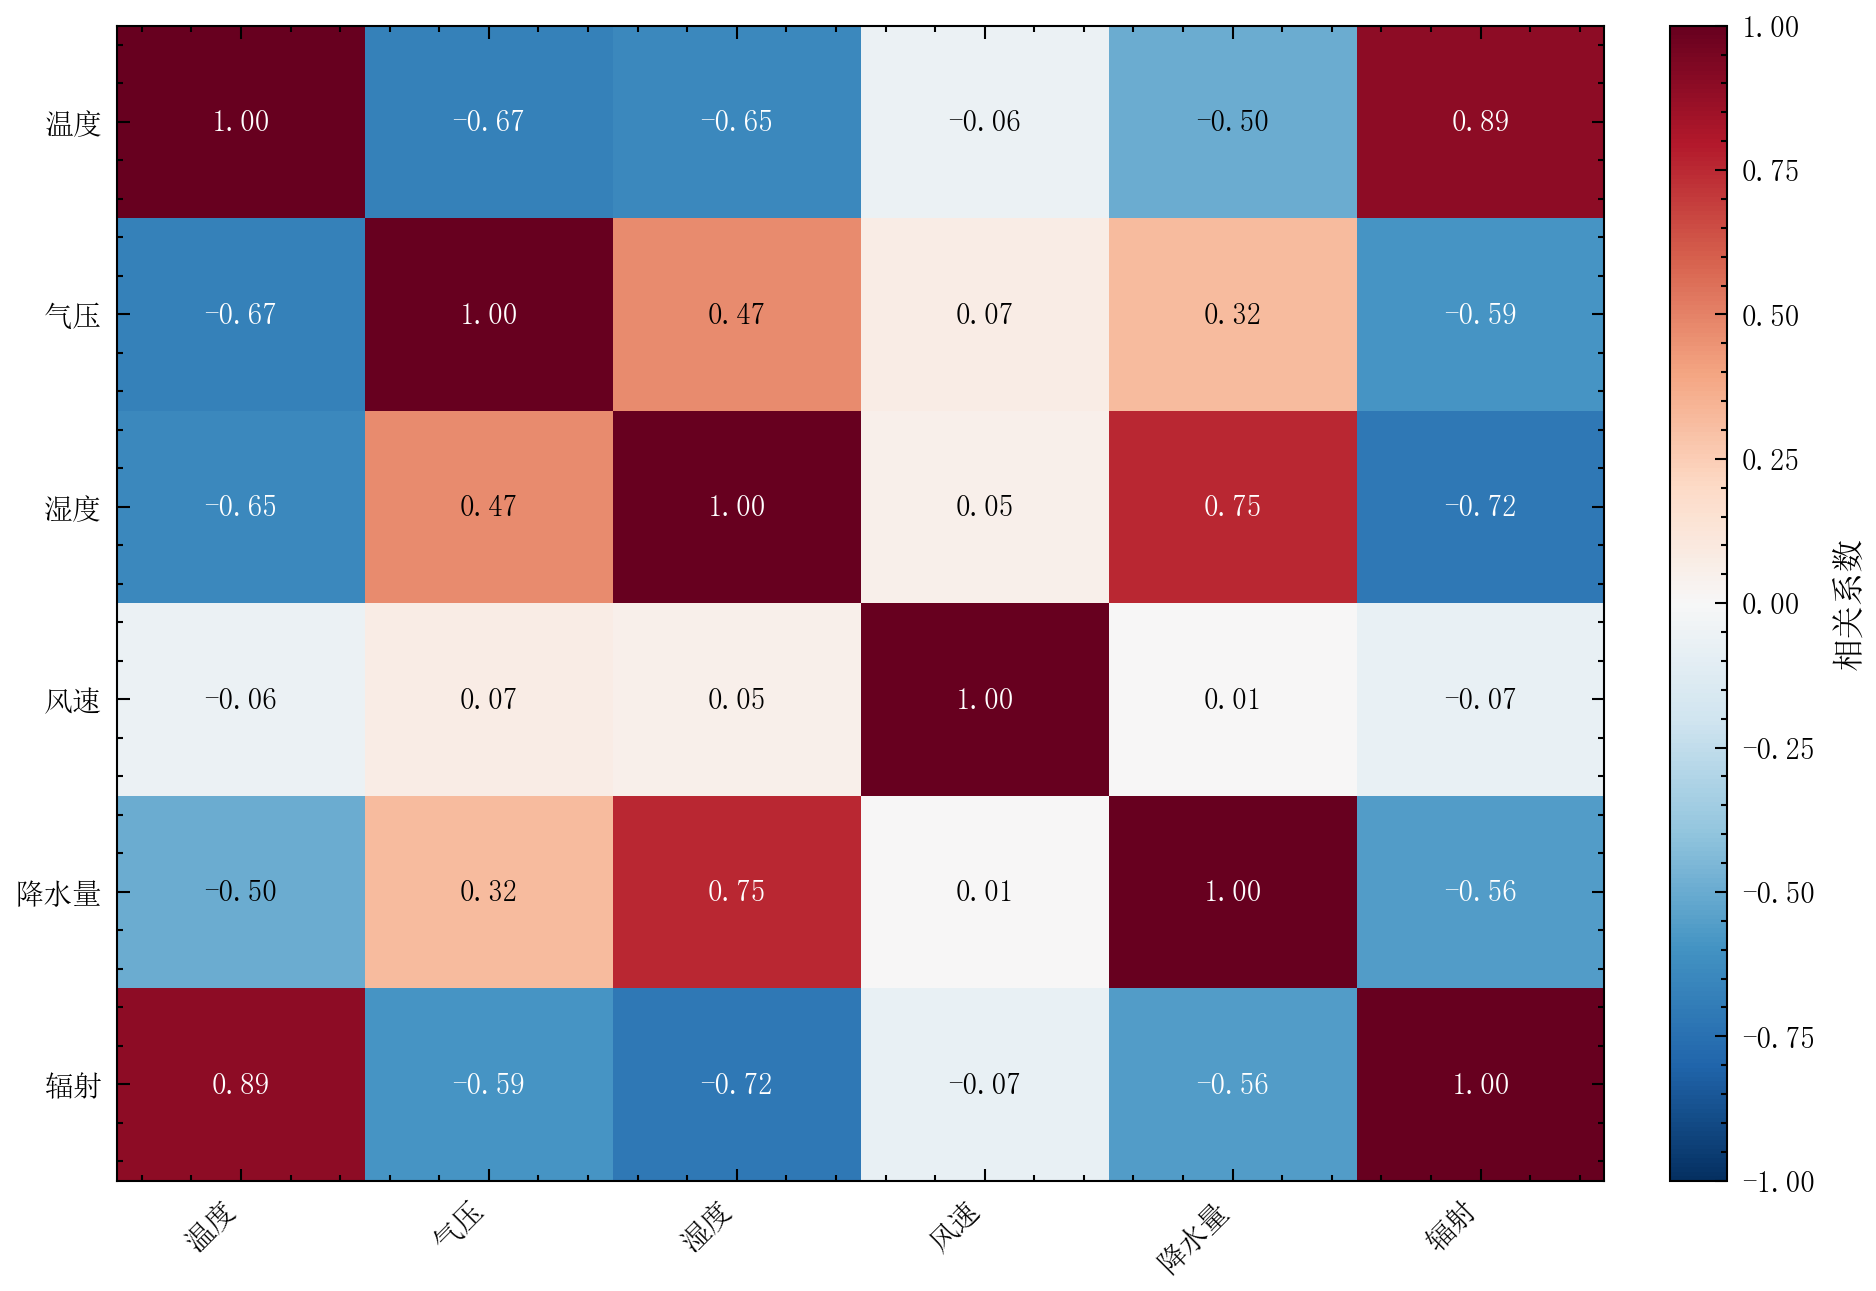
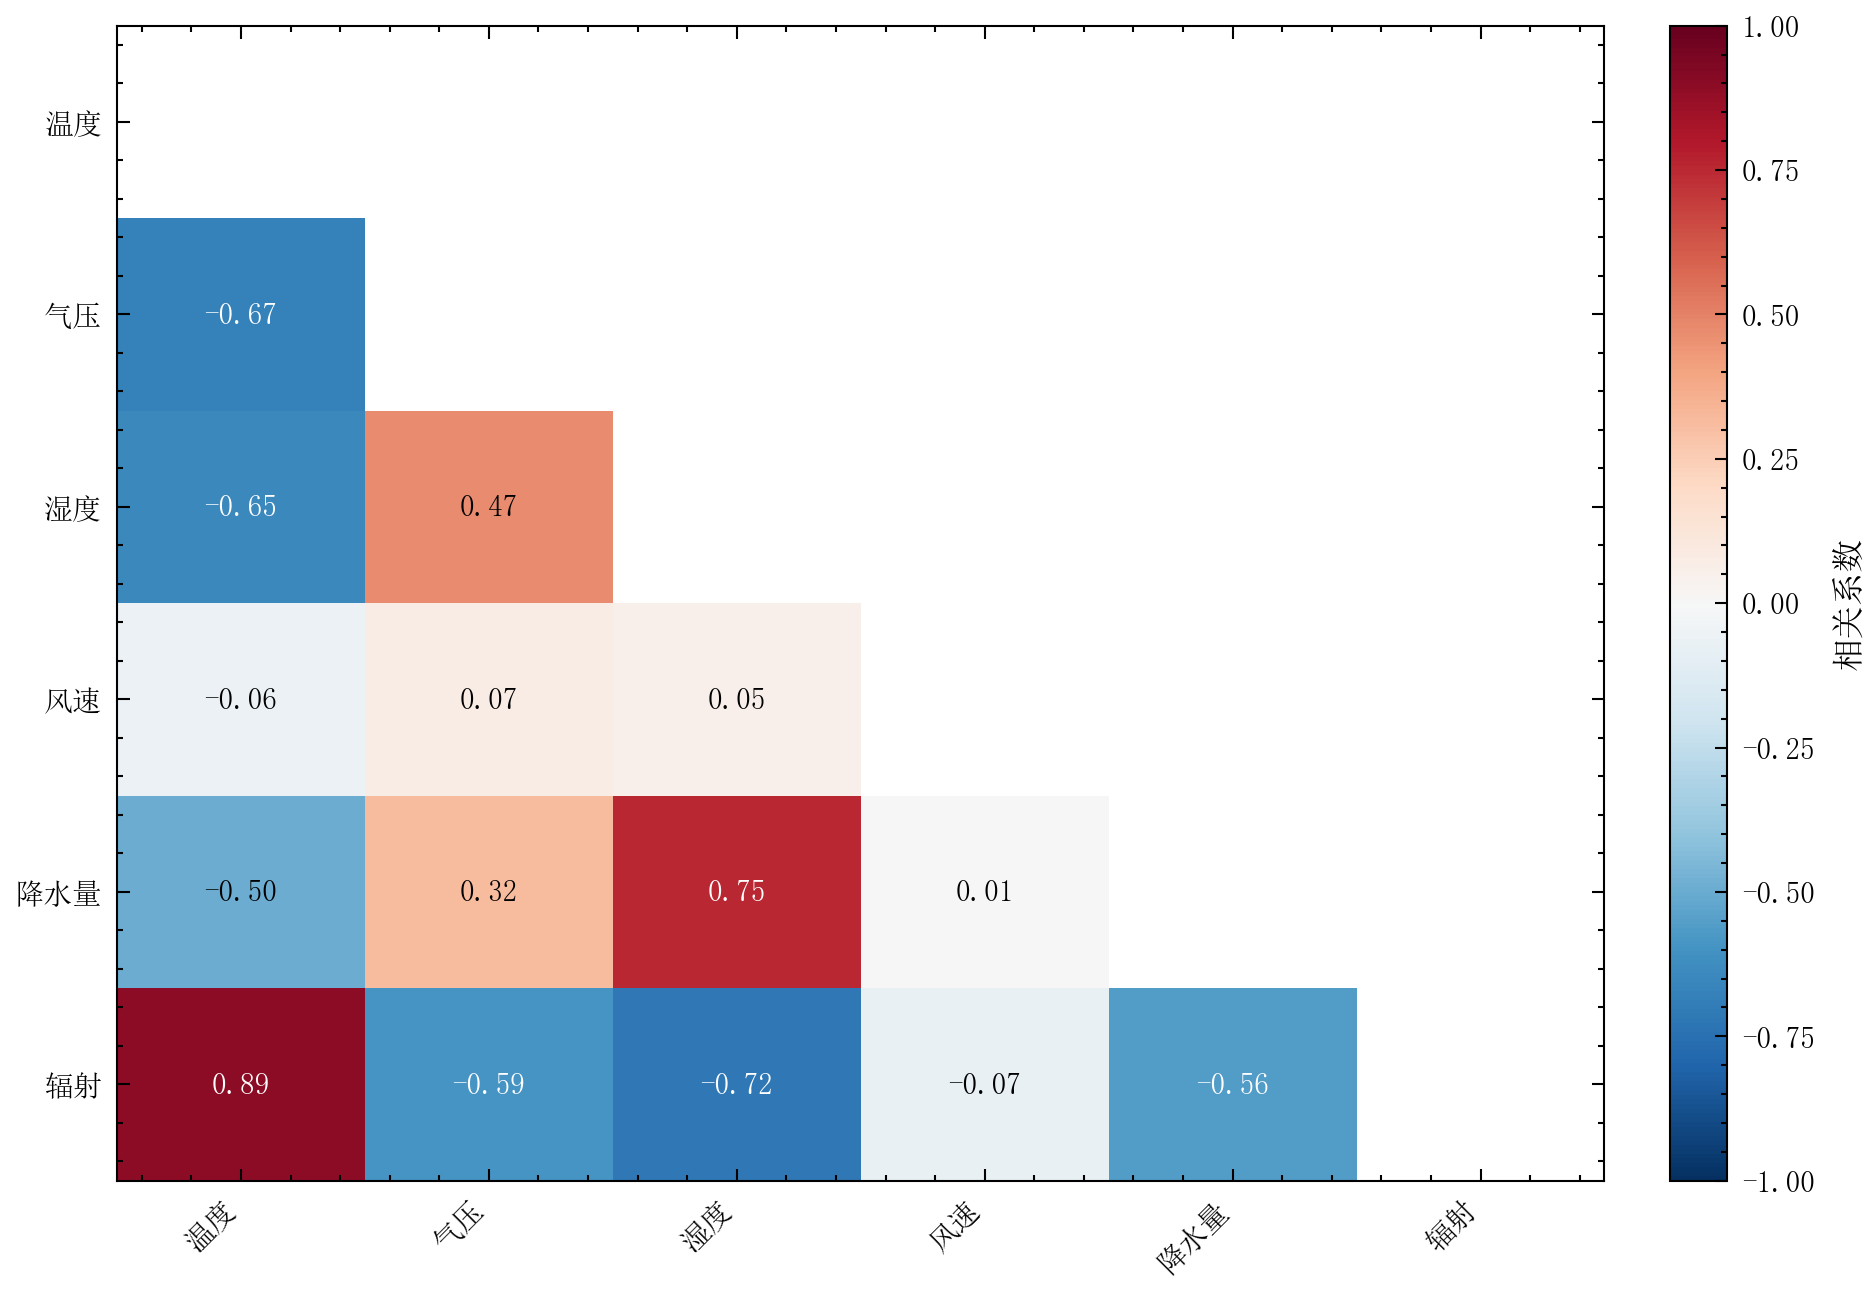
feat: heatmap支持NaN掩膜格 + showcase05下三角惯例 + grouped_bar colors测试4个

diff --git a/tests/unit/test_grouped_bar_colors.py b/tests/unit/test_grouped_bar_colors.py
@@ -1,0 +1,46 @@
+"""
+Round-46 tests: plot_grouped_bar colors 参数 + plot_heatmap NaN 掩膜.
+"""
+
+from __future__ import annotations
+
+import numpy as np
+import pytest
+
+import sciplot as sp
+
+
+def test_grouped_bar_custom_colors(cleanup_figures):
+    data = {"A": [1.0, 2.0], "B": [3.0, 4.0], "C": [5.0, 6.0]}
+    result = sp.plot_grouped_bar(
+        ["g1", "g2"], data,
+        colors=["#D62728", "#1F77B4", "#2CA02C"],
+    )
+    assert result.fig is not None
+
+
+def test_grouped_bar_colors_mismatch_raises(cleanup_figures):
+    data = {"A": [1.0, 2.0], "B": [3.0, 4.0]}
+    with pytest.raises(ValueError, match="colors 长度"):
+        sp.plot_grouped_bar(["g1", "g2"], data, colors=["#D62728"])
+
+
+def test_grouped_bar_default_colors_still_work(cleanup_figures):
+    """不传 colors 时行为不变（默认循环配色）。"""
+    data = {"A": [1.0, 2.0], "B": [3.0, 4.0]}
+    result = sp.plot_grouped_bar(["g1", "g2"], data)
+    assert result.fig is not None
+
+
+def test_heatmap_nan_mask_ok(cleanup_figures):
+    """NaN 掩膜格（上三角）不写文字、不崩溃。"""
+    m = np.array([[1.0, np.nan, np.nan],
+                  [0.5, 1.0, np.nan],
+                  [-0.2, 0.3, 1.0]])
+    result = sp.plot_heatmap(m, show_values=True, fmt=".1f", cmap="RdBu_r",
+                             vmin=-1, vmax=1)
+    assert result.fig is not None
+    # 应只有 6 个非 NaN 格的文字
+    texts = [t.get_text() for t in result.ax.texts]
+    assert len(texts) == 6
+    assert "nan" not in [t.lower() for t in texts]

diff --git a/showcase/05_heatmap.py b/showcase/05_heatmap.py
@@ -48,8 +48,12 @@ var_labels = [
 ]
 
 # ── 绘图 ──────────────────────────────────────────────────────
+# 掩膜上三角 + 对角线（相关性矩阵惯例：只展示下三角）
+masked = corr_matrix.copy()
+masked[np.triu_indices_from(masked)] = np.nan
+
 fig, ax = sp.plot_heatmap(
-    corr_matrix,
+    masked,
     row_labels=var_labels,
     col_labels=var_labels,
     cmap="RdBu_r",

diff --git a/sciplot/_plots/advanced.py b/sciplot/_plots/advanced.py
@@ -265,6 +265,8 @@ def plot_heatmap(
         for i in range(data.shape[0]):
             for j in range(data.shape[1]):
                 cell_value = data[i, j]
+                if not np.isfinite(cell_value):
+                    continue  # NaN 掩膜格（如上三角）不写文字
                 if annot_color is None:
                     # 依据格子实际渲染颜色的亮度自动选择黑/白文字，保证可读性。
                     rgba = im.cmap(norm(cell_value))
